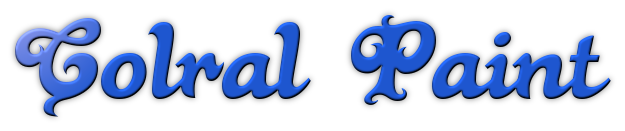
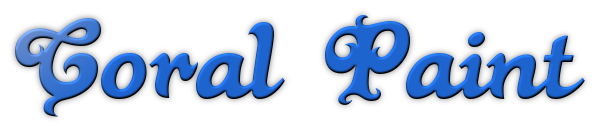
デザイン修正その２

Changed region(s): [[0.0, 0.1221, 0.5109, 0.8855], [0.5409, 0.0916, 0.9917, 0.8244], [0.7513, 0.2443, 0.8414, 0.3664]]

diff --git a/css/index.css b/css/index.css
@@ -34,18 +34,45 @@
 	width:100%;
 	text-align:center;
 }
-#header2 h2{
-	padding:20px;
-	font-size:2.4em;
-}
 
-.div_a_1{
+
+.text_a{
 	padding:12px;
+	border: double 8px #64a8d9; 
+	height:100%;
 }
 
-.div_a_1_1{
-	line-height: 1.4em;
+.text_a_midasi{
+	border: solid 1px #64a8d9; 
+	padding:6px;
+	border-radius:8px;
+	background-color:#64a8d9;
+	color:white;
+}
+
+.text_a_body{
+	padding:6px;
 	font-size:1.6em;
+	line-height:1.6em;
+}
+
+.img_a{
+	width:100%;
+	box-shadow: 0 10px 10px #666666;
+}
+
+.belt_a{
+	height:60px;
+	width:100%;
+	margin-top:80px;
+	background-color:#64a8d9
+}
+
+.carousel_w{
+	margin-top:80px;
+	padding-left:30px;
+	padding-right:30px;
+	background-color:#64a8d9;
 }
 
 .carousel1_cell{

diff --git a/index.php b/index.php
@@ -45,8 +45,8 @@
 </div>
 
 
-<div id="header2">
-	<h2>Let's fix the house before it breaks</h2>
+<div id="header2" >
+	<img src="<?php echo URL_BASE; ?>img/header2.png" alt="Let's fix the house before it breaks"  style="width:70%" />
 </div>
 	
 <div class="container-fluid" style="padding:0px">
@@ -55,15 +55,15 @@
 <div class="row" style="margin-top:40px">
 	<div class="col-12 col-md-6">
 		<div >
-			<img src="<?php echo URL_BASE; ?>rsc/img/md1/md_DSC_0115.jpg" style="width:100%"  />
+			<img src="<?php echo URL_BASE; ?>rsc/img/md1/md_DSC_0115.jpg" class="img_a"  />
 		</div>
 	</div>
 	<div class="col-12 col-md-6">
-		<div class="div_a_1">
+		<div class="text_a">
 			<div>
-				<h3>見出し1</h3>
+				<h3 class="text_a_midasi">見出し1</h3>
 			</div>
-			<div class="div_a_1_1">
+			<div class="text_a_body">
 そこで神はそれらを祝福して言った。「子を生み，増えて，海の水の中でいっぱいになれ+。飛ぶ生き物は，地上で増えよ」。 23 こうして，晩になり朝になり，5日目が過ぎた。
 
 24 神は言った。「陸に，さまざまな種類の生き物が現れよ。さまざまな種類の家畜と野生動物と地面を動く生き物*である+」。するとそのようになった。 25 神は，さまざまな種類の野生動物，さまざまな種類の家畜，地面を動くさまざまな種類の生き物を造った。神が見ると，それは良かった。
@@ -72,48 +72,52 @@
 	</div>
 </div><!--  row　区分1-1と1-2 -->
 
+<div class="belt_a"></div>
+
 
 <div class="row" style="margin-top:80px">
 
 	<div class="col-12 col-md-6">
-		<div class="div_a_1">
+		<div class="text_a">
 			<div>
-				<h3>見出し2</h3>
+				<h3 class="text_a_midasi">見出し2</h3>
 			</div>
-			<div class="div_a_1_1">
+			<div class="text_a_body">
 ネブカドネザルは治世の第2年に，何度か夢を見て心が落ち着かず+，眠れなくなった。 2 それで王は，夢について説明させるために，魔術師，まじない師，呪術師，カルデア人*を招集するよう命じた。その者たちはやって来て，王の前に立った+。 3 王は彼らに言った。「私はある夢を見た。その夢で見たのが何だったのか知りたくて，心が落ち着かない」。 4 カルデア人たちはアラム語+で王に答えた*。「王がいつまでも生き続けますように。どのような夢かを私どもにお話しください。そうすれば解き明かします」。
 			</div>
 		</div>
 	</div>
 	<div class="col-12 col-md-6">
 		<div >
-			<img src="<?php echo URL_BASE; ?>rsc/img/md1/md_DSC_0130.jpg" style="width:100%"  />
+			<img src="<?php echo URL_BASE; ?>rsc/img/md1/md_DSC_0130.jpg"  class="img_a"   />
 		</div>
 	</div>
 </div><!--  row　区分1-1と1-2 -->
+
+<div class="belt_a"></div>
 
 
 <div class="row" style="margin-top:80px">
 	<div class="col-12 col-md-6">
 		<div >
-			<img src="<?php echo URL_BASE; ?>rsc/img/md1/md_DSC_0250.jpg" style="width:100%"  />
+			<img src="<?php echo URL_BASE; ?>rsc/img/md1/md_DSC_0250.jpg"  class="img_a"   />
 		</div>
 	</div>
 	<div class="col-12 col-md-6">
-		<div class="div_a_1">
+		<div class="text_a">
 			<div>
-				<h3>見出し3</h3>
+				<h3 class="text_a_midasi" >見出し3</h3>
 			</div>
-			<div class="div_a_1_1">
+			<div class="text_a_body">
 別の安息日のこと，イエスは会堂に入って教え始めた。そこに，右手がまひした*男性がいた+。 7 律法学者とパリサイ派の人たちは，イエスが安息日に治すのかどうか，じっと見ていた。イエスを訴える理由を見つけようとしてだった
 			</div>
 		</div>
 	</div>
 </div><!--  row　区分1-1と1-2 -->
 
-<div style="height:60px;width:100%;margin-top:80px;background-color:#64a8d9"></div>
+<div class="belt_a"></div>
 
-<div style="margin-top:80px;padding-left:30px;padding-right:30px;background-color:#dd5044">
+<div class="carousel_w" >
     <div id="carousel1" >
     
     	<?php for($i=0;$i<10;$i++){?>
@@ -147,8 +151,8 @@
     	
     	
     	<div class="col-12 col-md-3">
-    		<div class="card border-primary mb-3">
-        		<div class="card-header">
+    		<div class="card border-primary mb-3" style="border-width:2px;">
+        		<div class="card-header bg-primary text-light" style="border-radius:0px;">
         			カードのテスト
         		</div>
         		<div class="card-body">
@@ -207,6 +211,6 @@
 <div class="yohaku"></div>
 
 </div><!-- content -->
-<div id="footer">(C) Coparal paint 2021-9-27</div>
+<div id="footer" style="background-color:#64a8d9">(C) Coral Paint 2021-9-27</div>
 </body>
 </html>
